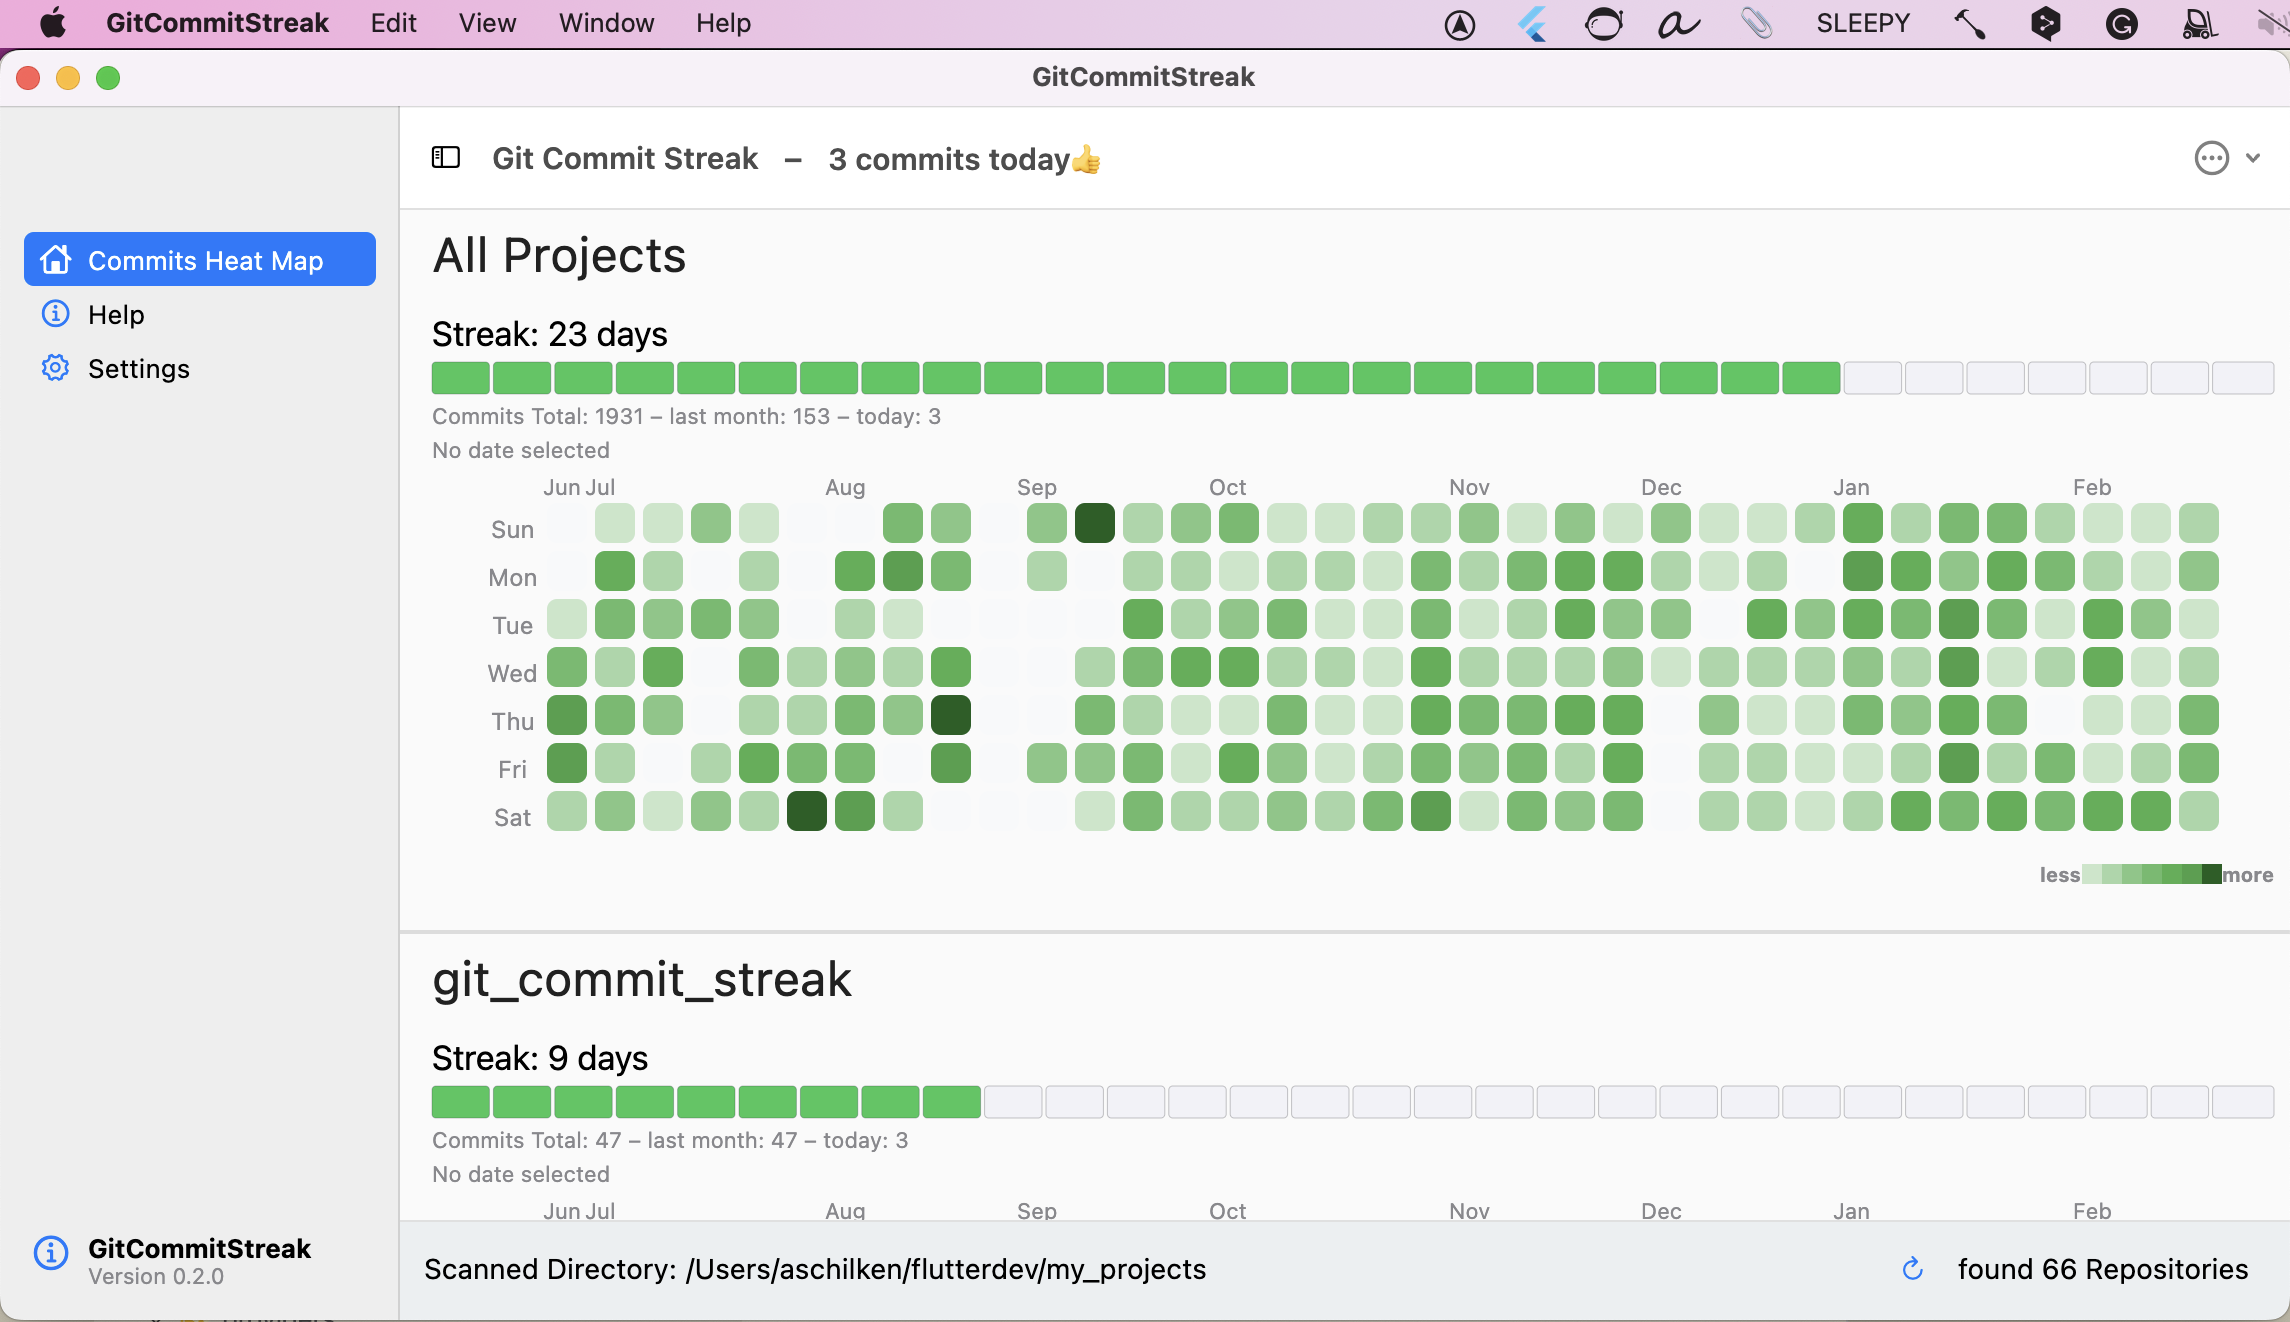
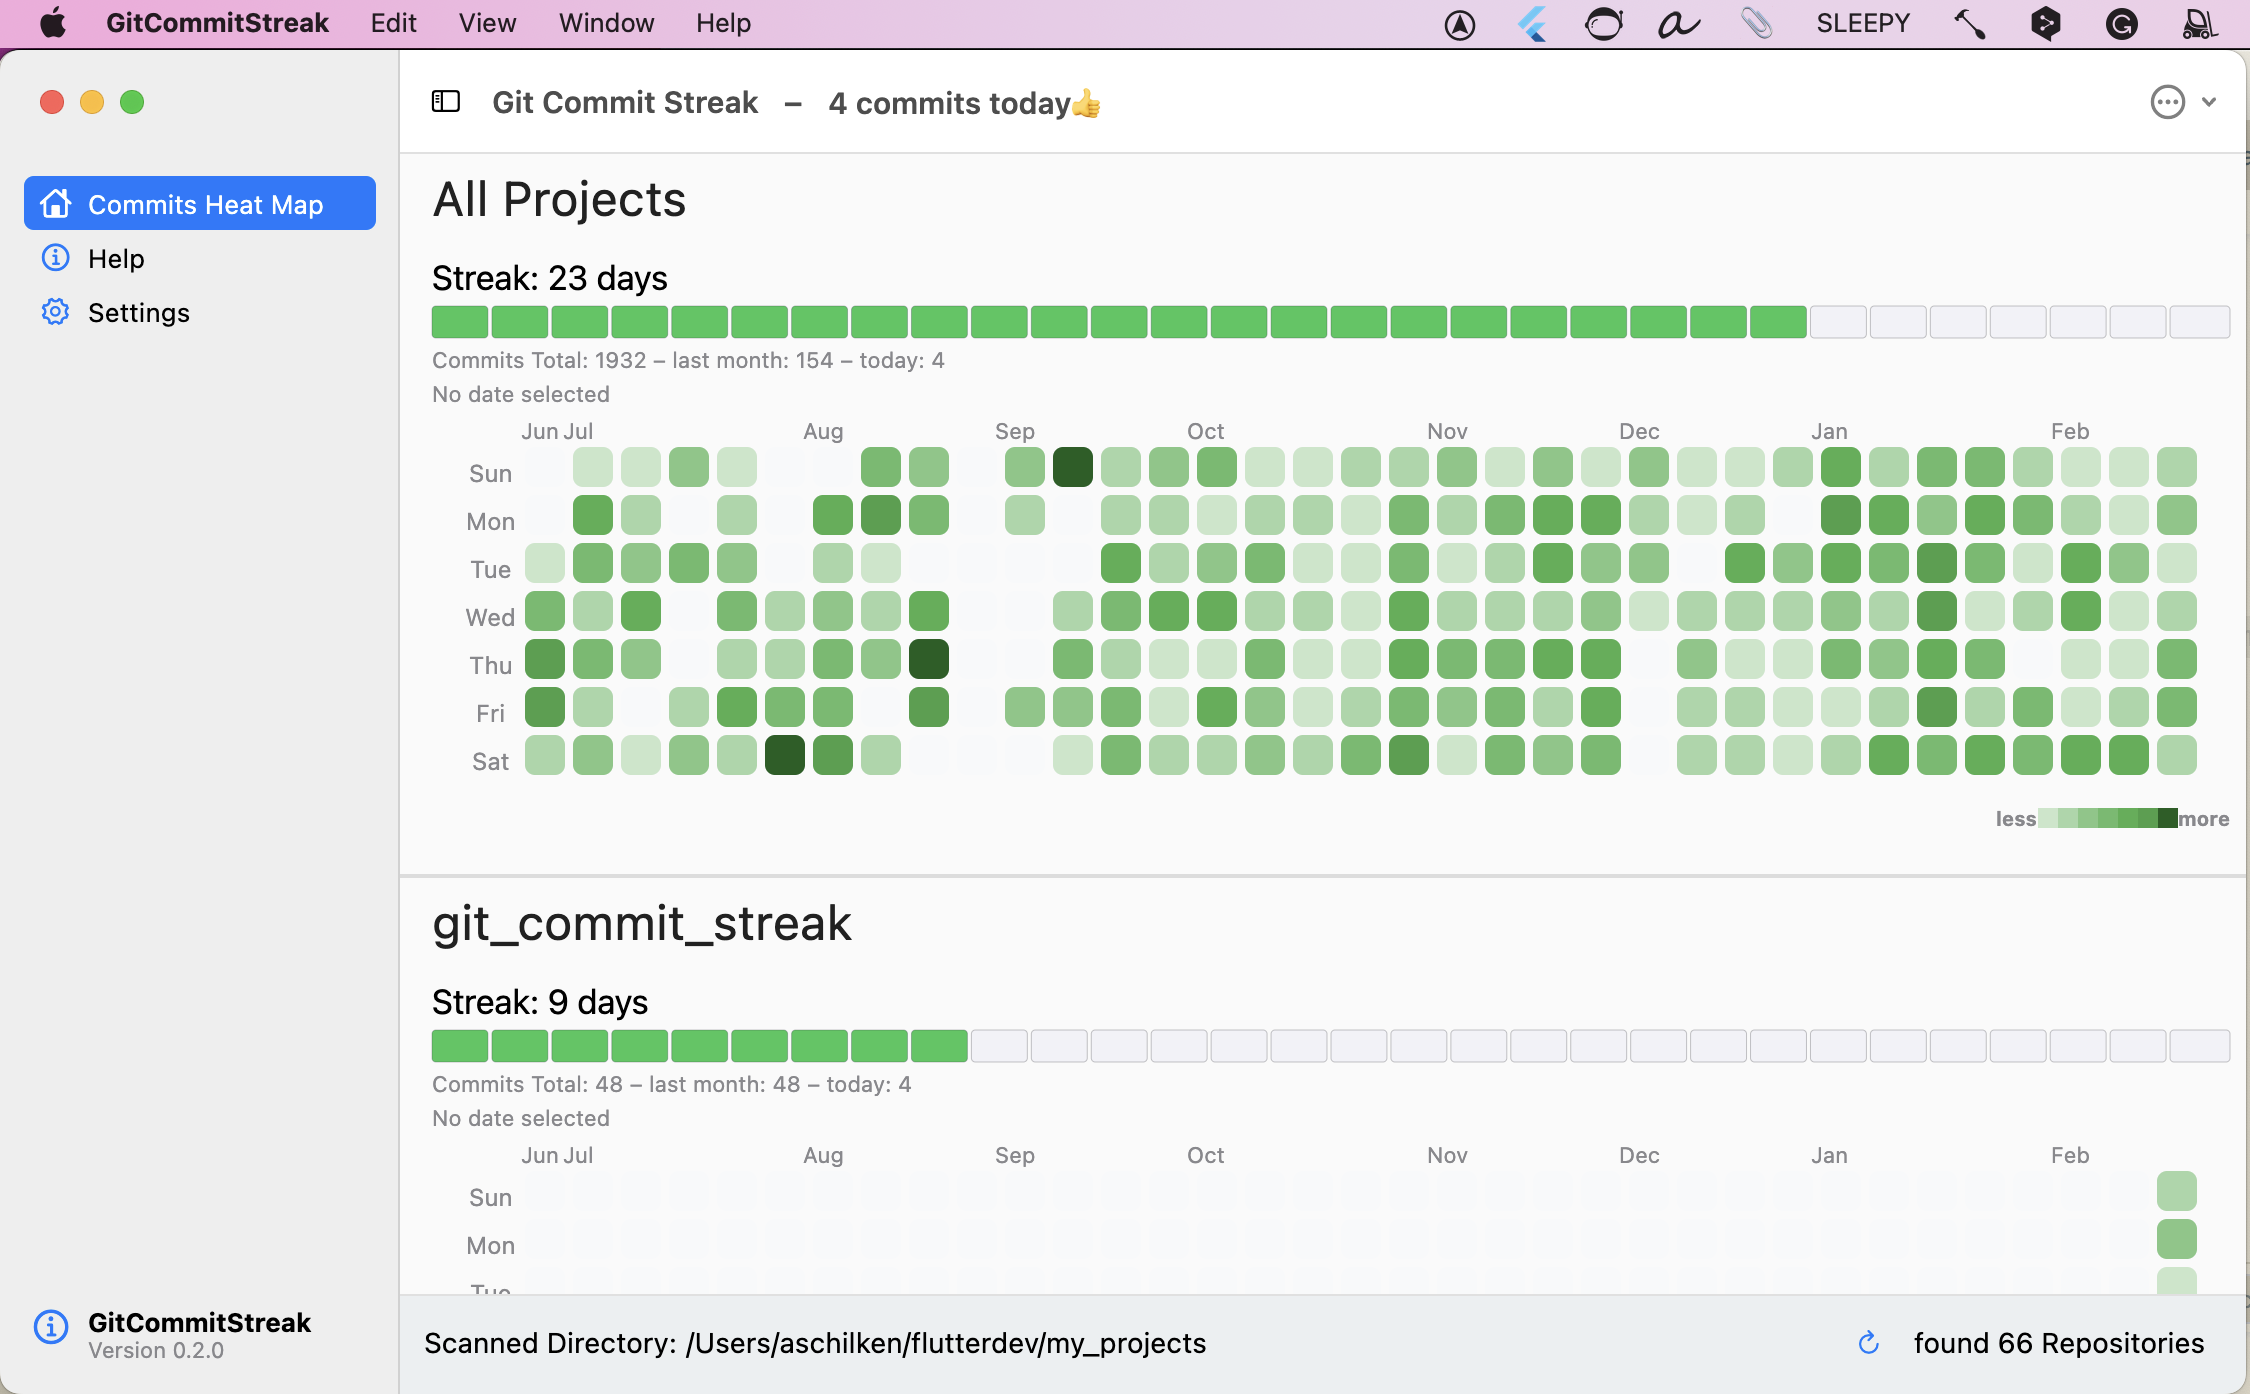
replace MainFlutterWindow to use the new look for macOS apps

diff --git a/macos/Runner/MainFlutterWindow.swift b/macos/Runner/MainFlutterWindow.swift
@@ -1,15 +1,80 @@
 import Cocoa
 import FlutterMacOS
 
-class MainFlutterWindow: NSWindow {
+class BlurryContainerViewController: NSViewController {
+  let flutterViewController = FlutterViewController()
+
+  init() {
+    super.init(nibName: nil, bundle: nil)
+  }
+
+  required init?(coder: NSCoder) {
+    fatalError()
+  }
+
+  override func loadView() {
+    let blurView = NSVisualEffectView()
+    blurView.autoresizingMask = [.width, .height]
+    blurView.blendingMode = .behindWindow
+    blurView.state = .active
+    if #available(macOS 10.14, *) {
+        blurView.material = .sidebar
+    }
+    self.view = blurView
+  }
+
+  override func viewDidLoad() {
+    super.viewDidLoad()
+
+    self.addChild(flutterViewController)
+
+    flutterViewController.view.frame = self.view.bounds
+    flutterViewController.backgroundColor = .clear // **Required post-Flutter 3.7.0**
+    flutterViewController.view.autoresizingMask = [.width, .height]
+    self.view.addSubview(flutterViewController.view)
+  }
+}
+
+class MainFlutterWindow: NSWindow, NSWindowDelegate {
   override func awakeFromNib() {
-    let flutterViewController = FlutterViewController.init()
+    delegate = self
+    let blurryContainerViewController = BlurryContainerViewController()
     let windowFrame = self.frame
-    self.contentViewController = flutterViewController
+    self.contentViewController = blurryContainerViewController
     self.setFrame(windowFrame, display: true)
 
-    RegisterGeneratedPlugins(registry: flutterViewController)
+    if #available(macOS 10.13, *) {
+      let customToolbar = NSToolbar()
+      customToolbar.showsBaselineSeparator = false
+      self.toolbar = customToolbar
+    }
+    self.titleVisibility = .hidden
+    self.titlebarAppearsTransparent = true
+    if #available(macOS 11.0, *) {
+      // Use .expanded if the app will have a title bar, else use .unified
+      self.toolbarStyle = .unified
+    }
+
+    self.isMovableByWindowBackground = true
+    self.styleMask.insert(NSWindow.StyleMask.fullSizeContentView)
+
+    self.isOpaque = false
+    self.backgroundColor = .clear
+
+    RegisterGeneratedPlugins(registry: blurryContainerViewController.flutterViewController)
 
     super.awakeFromNib()
+  }
+
+  func window(_ window: NSWindow, willUseFullScreenPresentationOptions proposedOptions: NSApplication.PresentationOptions = []) -> NSApplication.PresentationOptions {
+    return [.autoHideToolbar, .autoHideMenuBar, .fullScreen]
+  }
+
+  func windowWillEnterFullScreen(_ notification: Notification) {
+      self.toolbar?.isVisible = false
+  }
+  
+  func windowDidExitFullScreen(_ notification: Notification) {
+      self.toolbar?.isVisible = true
   }
 }

diff --git a/lib/pages/home_page.dart b/lib/pages/home_page.dart
@@ -23,6 +23,7 @@ class HomePage extends ConsumerWidget {
     return Builder(
       builder: (context) {
         return MacosScaffold(
+          backgroundColor: Colors.white,
           toolBar: ToolBar(
             leading: MacosIconButton(
               icon: const MacosIcon(
